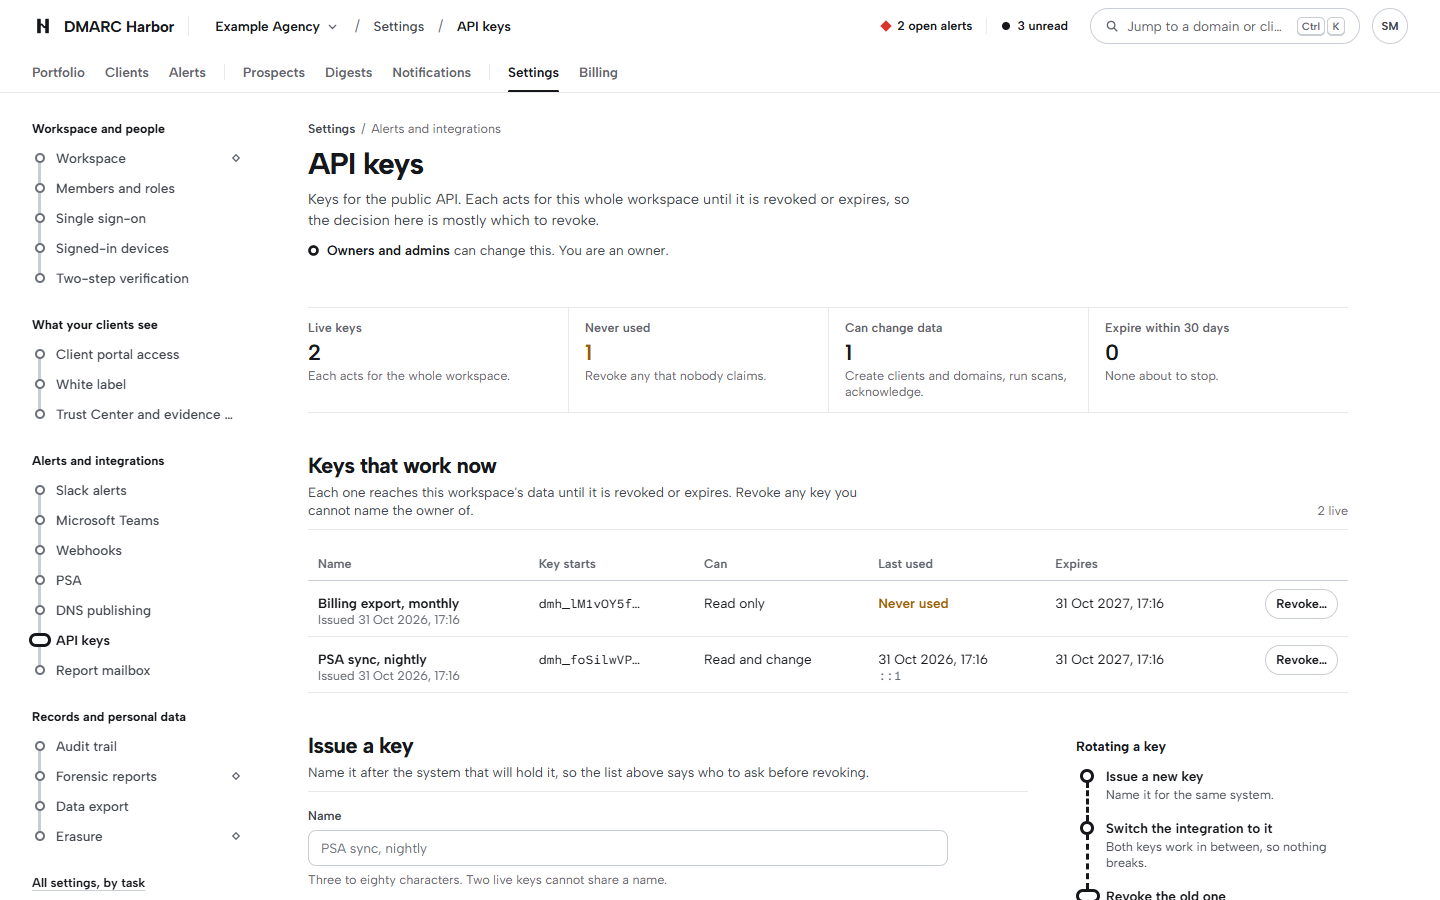
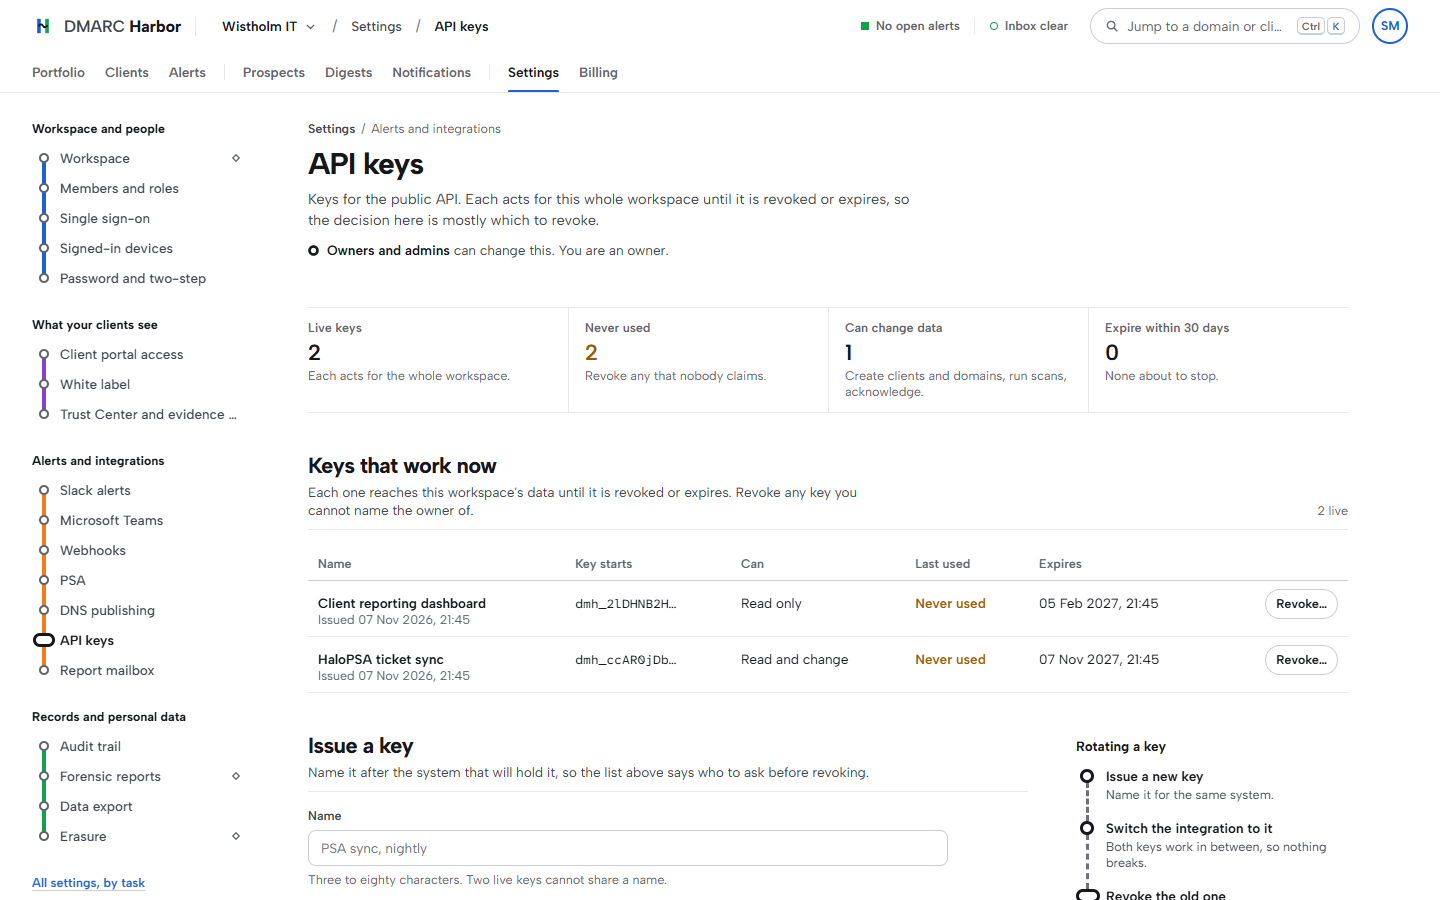
Docs: retake the screenshots in the new colours, and show the portfolio and a domain page
The six existing screenshots are retaken from an invented agency (Wistholm IT) with a month of sample reports on .example domains, so the policy strips and enforcement bars carry real states. The setup guide gains the Portfolio, with its enforcement bar and daily charts, and a domain page with its mail routes and volume chart.

diff --git a/docs/GUIDE.md b/docs/GUIDE.md
@@ -69,7 +69,20 @@ unmeasured.
 
 ![A domain's setup page: ownership verified, the DMARC record to publish with its host and value ready to copy, and the setup steps beside it](/docs-media/setup-records.png "A setup page after ownership is verified. The record to publish is on the left with copy buttons, and the steps on the right say what the platform is waiting for. Sample data.")
 
+Once reports arrive, the Portfolio adds every domain together: how far your clients
+have moved towards `p=reject`, the pass rates weighted by mail, and each day's mail,
+passed and failed. A day with no report is hatched, never drawn as zero.
+
+![The Portfolio: the enforcement bar for every domain, DMARC, SPF and DKIM pass rates, and the portfolio's mail and pass rates by day](/docs-media/portfolio.png "The Portfolio. The bar on the left is every domain by the policy it publishes; the charts on the right add every domain's mail together by day, passed in green and failed in red. Sample data: invented clients on .example domains.")
+
 ## 4. Review who sends as the domain
+
+The domain page draws its mail as lines, one per sender, through the SPF and DKIM
+checks to the inbox. Mail that failed both checks is the dashed red line, and it
+ends where the published policy sends it. Below are each sender's share of the mail,
+the mail by day and the pass rates by day.
+
+![A domain page: each sender as a line through SPF and DKIM to the inbox, the failed mail as a dashed red line refused at p=reject, each sender's share, and the mail by day](/docs-media/domain-page.png "A domain page. One line per sender; the dashed red line is mail that failed DMARC, ending where the policy sends it. The volume chart below splits each day's mail into passed and failed. Sample data.")
 
 1. Open the domain and its Senders tab. Each row is a service or server that sent
    mail as the domain, with how much of its mail failed.
